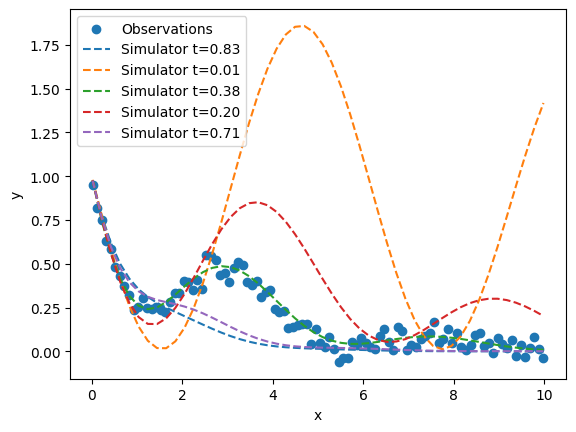
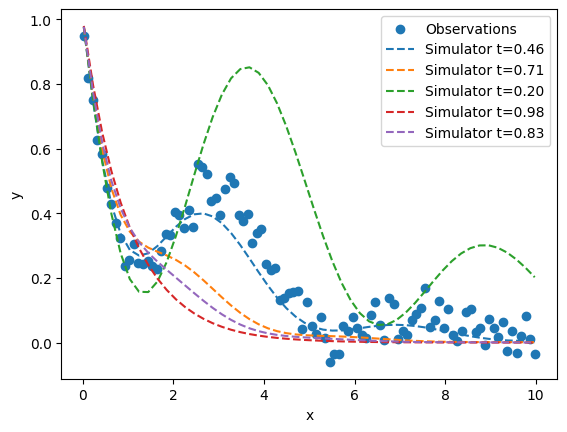
typo fix

diff --git a/examples/basics.py b/examples/basics.py
@@ -34,8 +34,7 @@ from jax import config
 config.update("jax_enable_x64", True)
 
 
-# %%
-#
+# %% [markdown]
 # ## Step 1: Define the model
 #
 # Defining both `k_eta` and `k_delta` is required.
@@ -93,6 +92,7 @@ class OurModel(KOHModel):
 # ## Step 2: Define the priors
 # %%
 import numpyro.distributions as dist
+
 from kohgpjax.parameters import ModelParameterPriorDict, ParameterPrior
 
 prior_dict: ModelParameterPriorDict = {
@@ -194,6 +194,7 @@ plt.show()
 
 # %%
 from jax import grad, jit
+
 from kohgpjax.parameters import ModelParameters
 
 model_parameters = ModelParameters(prior_dict=prior_dict)

diff --git a/docs/_examples/basics.md b/docs/_examples/basics.md
@@ -19,18 +19,14 @@ from jax import config
 config.update("jax_enable_x64", True)
 ```
 
+## Step 1: Define the model
 
-```python
-#
-# ## Step 1: Define the model
-#
-# Defining both `k_eta` and `k_delta` is required.
-# Defining `k_epsilon_eta` is completely optional - default behaviour sets variance to 0 effectively turning off this kernel.
-# Defining `k_epsilon` here is also optional. A white noise kernel is used by default but a prior definition must always be provided by the user. The kernel will search for the variance parameter prior under ['epsilon', 'variances', 'variance'] of the prior dictionary by default.
-#
-# In this example variances are defined as the inverse of a precision parameter.
-# This is inkeeping with Higdon et al. (2004).
-```
+Defining both `k_eta` and `k_delta` is required.
+Defining `k_epsilon_eta` is completely optional - default behaviour sets variance to 0 effectively turning off this kernel.
+Defining `k_epsilon` here is also optional. A white noise kernel is used by default but a prior definition must always be provided by the user. The kernel will search for the variance parameter prior under ['epsilon', 'variances', 'variance'] of the prior dictionary by default.
+
+In this example variances are defined as the inverse of a precision parameter.
+This is inkeeping with Higdon et al. (2004).
 
 
 ```python
@@ -69,7 +65,7 @@ class OurModel(KOHModel):
             active_dims=[0],
             variance=jnp.array(1 / params["variances"]["precision"]),
         )
-    
+
     # def k_epsilon_eta(self, params_constrained) -> gpx.kernels.AbstractKernel:
     #     params = params_constrained["epsilon_eta"]
     #     return gpx.kernels.White(
@@ -150,8 +146,8 @@ prior_dict: ModelParameterPriorDict = {
 ```python
 from kohgpjax.dataset import KOHDataset
 
-DATAFIELD = np.loadtxt('data/field.csv', delimiter=',', dtype=np.float32)
-DATASIM = np.loadtxt('data/sim.csv', delimiter=',', dtype=np.float32)
+DATAFIELD = np.loadtxt("data/field.csv", delimiter=",", dtype=np.float32)
+DATASIM = np.loadtxt("data/sim.csv", delimiter=",", dtype=np.float32)
 
 xf = jnp.reshape(DATAFIELD[:, 0], (-1, 1)).astype(jnp.float64)
 xc = jnp.reshape(DATASIM[:, 0], (-1, 1)).astype(jnp.float64)
@@ -183,14 +179,14 @@ print(kohdataset)
 import matplotlib.pyplot as plt
 
 fig, ax = plt.subplots(1, 1)
-ax.scatter(xf, yf, label='Observations')
+ax.scatter(xf, yf, label="Observations")
 rng = np.random.default_rng()
 ts = rng.permutation(np.unique(tc))[:5]
 for t in ts:
     rows = tc==t
-    ax.plot(xc[rows], yc[rows], '--', label=f'Simulator t={t:.2f}')
-ax.set_xlabel('x')
-ax.set_ylabel('y')
+    ax.plot(xc[rows], yc[rows], "--", label=f"Simulator t={t:.2f}")
+ax.set_xlabel("x")
+ax.set_ylabel("y")
 ax.legend()
 plt.show()
 ```
